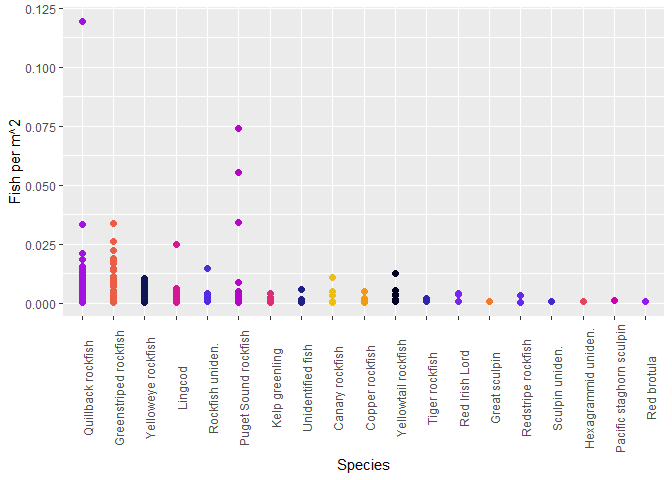
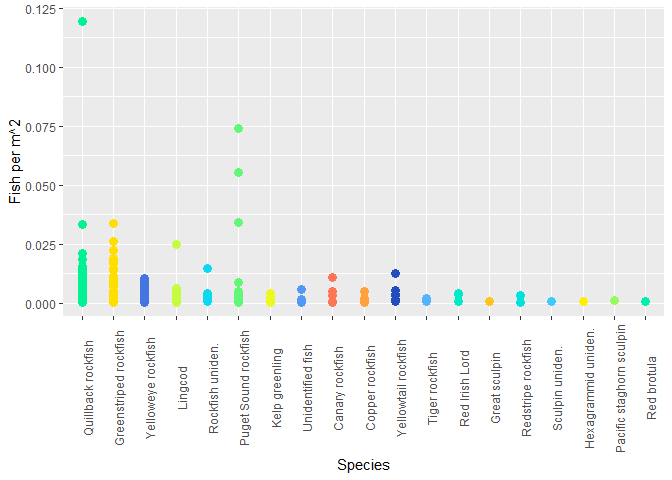
updated figures

diff --git a/ROV_fish_analysis.md b/ROV_fish_analysis.md
@@ -3,13 +3,13 @@ ROV fish densities
 Fiona Francis
 2/2/2021
 
-# Preliminary Analysis of Vector ROV surveys from 2018
+# Preliminary analysis of ROV VECTOR surveys from 2018
 
-This includes both data cleaning and calculating abundances of fish
-species and their densities using the area of transects. The goal of
-this analysis is to determine if there is an effect of RCA status or
-habitat type on fish densities. I think that I will need to calculate a
-PCA analysis to pair down habitat characteristics into fewer categories.
+Mostly data cleaning and calculating abundances of fish species and
+their densities using the area of transects. The goal of this analysis
+is to determine if there is an effect of RCA status or habitat type on
+fish densities. I think that I will need to calculate a PCA analysis to
+pair down habitat characteristics into fewer categories.
 
 SUMMARY STATS
 
@@ -139,8 +139,8 @@ Species densities from all transects
 ``` r
 # plot density against species
 
-ggplot(fish.density) + geom_point(aes(fct_infreq(factor(Species)), density, colour = Species), size = 2, show.legend = F) +
-    scale_color_fish_d(option = "Gramma_loreto", direction = -1) +  
+ggplot(fish.density) + geom_point(aes(fct_infreq(factor(Species)), density, colour = Species), size = 3, show.legend = F) +
+    scale_color_fish_d(option = "Cirrhilabrus_solorensis", direction = -1) +  
   theme(axis.text.x = element_text(angle = 90)) +
   xlab("Species") +
   ylab("Fish per m^2")
@@ -149,3 +149,107 @@ ggplot(fish.density) + geom_point(aes(fct_infreq(factor(Species)), density, colo
     ## Warning: Removed 15 rows containing missing values (geom_point).
 
 ![](ROV_fish_analysis_files/figure-gfm/unnamed-chunk-6-1.png)<!-- -->
+
+``` r
+ggplot(fish.density) + geom_point(aes(fct_infreq(factor(Species)), density, colour = RCA), size = 3, show.legend = T) +
+    scale_color_fish_d(option = "Cirrhilabrus_solorensis", direction = -1) +  
+  theme(axis.text.x = element_text(angle = 90)) +
+  xlab("Species") +
+  ylab("Fish per m^2")
+```
+
+    ## Warning: Removed 15 rows containing missing values (geom_point).
+
+![](ROV_fish_analysis_files/figure-gfm/unnamed-chunk-6-2.png)<!-- -->
+
+``` r
+ggplot(fish.density) + geom_point(aes(RCA, density, colour = RCA), alpha = 0.4, size = 3, position = position_jitter(width = 0.05)) +
+   scale_color_fish_d(option = "Cirrhilabrus_solorensis", direction = -1) +
+  ylab("Fish per m^2")
+```
+
+    ## Warning: Removed 15 rows containing missing values (geom_point).
+
+![](ROV_fish_analysis_files/figure-gfm/unnamed-chunk-6-3.png)<!-- -->
+
+``` r
+ggplot(fish.density) + geom_point(aes(RCA, density, colour = Species), alpha = 0.8, size = 5, show.legend = F, position = position_jitter(width = 0.05)) +
+   scale_color_fish_d(option = "Cirrhilabrus_solorensis", direction = -1) +
+  ylab("Fish per m^2")
+```
+
+    ## Warning: Removed 15 rows containing missing values (geom_point).
+
+![](ROV_fish_analysis_files/figure-gfm/unnamed-chunk-6-4.png)<!-- -->
+
+Rcockfish only
+
+``` r
+ggplot(rockfish.density) + geom_point(aes(fct_infreq(factor(Species)), density, colour = Species), size = 3, show.legend = F) +
+    scale_color_fish_d(option = "Cirrhilabrus_solorensis", direction = -1) +  
+  theme(axis.text.x = element_text(angle = 90)) +
+  xlab("Species") +
+  ylab("Rockfish per m^2")
+```
+
+    ## Warning: Removed 8 rows containing missing values (geom_point).
+
+![](ROV_fish_analysis_files/figure-gfm/unnamed-chunk-7-1.png)<!-- -->
+
+``` r
+ggplot(rockfish.density) + geom_point(aes(fct_infreq(factor(Species)), density, colour = RCA), size = 3, show.legend = T) +
+    scale_color_fish_d(option = "Cirrhilabrus_solorensis", direction = -1) +  
+  theme(axis.text.x = element_text(angle = 90)) +
+  xlab("Species") +
+  ylab("Rockfish per m^2")
+```
+
+    ## Warning: Removed 8 rows containing missing values (geom_point).
+
+![](ROV_fish_analysis_files/figure-gfm/unnamed-chunk-7-2.png)<!-- -->
+
+``` r
+ggplot(rockfish.density) + geom_point(aes(RCA, density, colour = RCA), alpha = 0.4, size = 3, position = position_jitter(width = 0.05)) +
+   scale_color_fish_d(option = "Cirrhilabrus_solorensis", direction = -1) +
+  ylab("Rockfish per m^2")
+```
+
+    ## Warning: Removed 8 rows containing missing values (geom_point).
+
+![](ROV_fish_analysis_files/figure-gfm/unnamed-chunk-7-3.png)<!-- -->
+
+``` r
+ggplot(rockfish.density) + geom_point(aes(RCA, density, colour = Species), alpha = 0.8, size = 5, show.legend = T, position = position_jitter(width = 0.05)) +
+   scale_color_fish_d(option = "Cirrhilabrus_solorensis", direction = -1) +
+  ylab("Rockfish per m^2") +
+  theme_bw()
+```
+
+    ## Warning: Removed 8 rows containing missing values (geom_point).
+
+![](ROV_fish_analysis_files/figure-gfm/unnamed-chunk-7-4.png)<!-- -->
+
+Quillback
+
+``` r
+quillback <- all.data %>% filter(Species == "Quillback rockfish") %>% group_by(Survey.abbrv, Species, RCA) %>% summarise(total.fish = sum(Count), transect.area = mean(transect.area)) %>%
+  mutate(density = total.fish/transect.area)
+```
+
+    ## `summarise()` regrouping output by 'Survey.abbrv', 'Species' (override with `.groups` argument)
+
+``` r
+ggplot(quillback) + geom_point(aes(RCA, density, colour = RCA), alpha = 0.8, size = 5, show.legend = F, position = position_jitter(width = 0.05)) +
+   scale_color_fish_d(option = "Cirrhilabrus_solorensis", direction = -1) +
+  ylab("Rockfish per m^2") +
+  add_fishape(family = "Scorpaenidae",
+               option = "Sebastes_caurinus",
+               ymin = 0.1, ymax = 0.125,
+               fill = fish(option = "Gramma_loreto", n = 2)[1],
+               alpha = 0.8) +
+  theme_bw()
+```
+
+    ## Warning: Removed 2 rows containing missing values (geom_point).
+
+![](ROV_fish_analysis_files/figure-gfm/unnamed-chunk-8-1.png)<!-- -->
